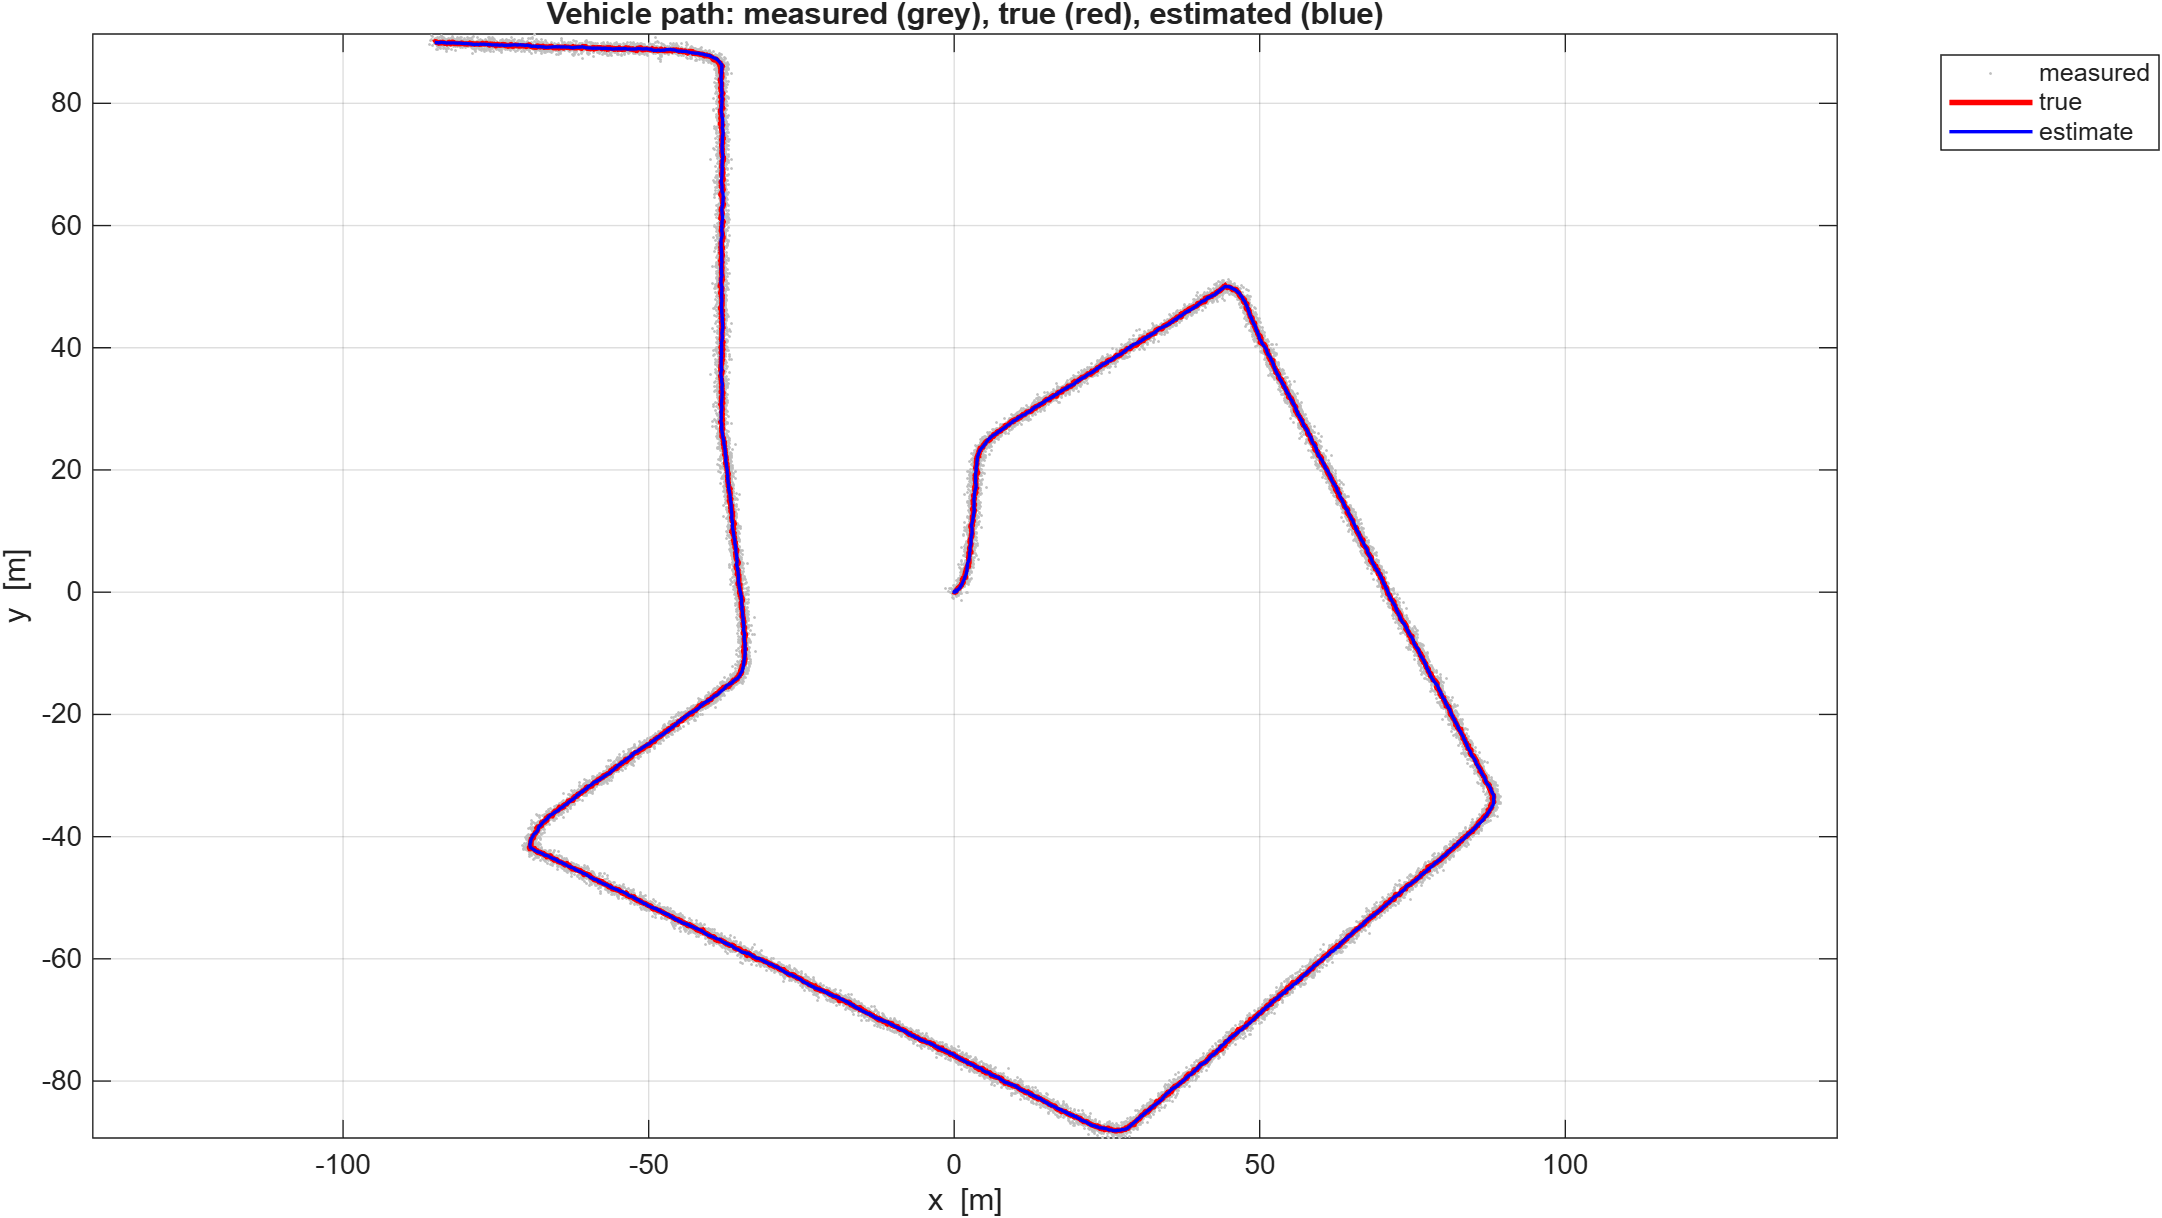
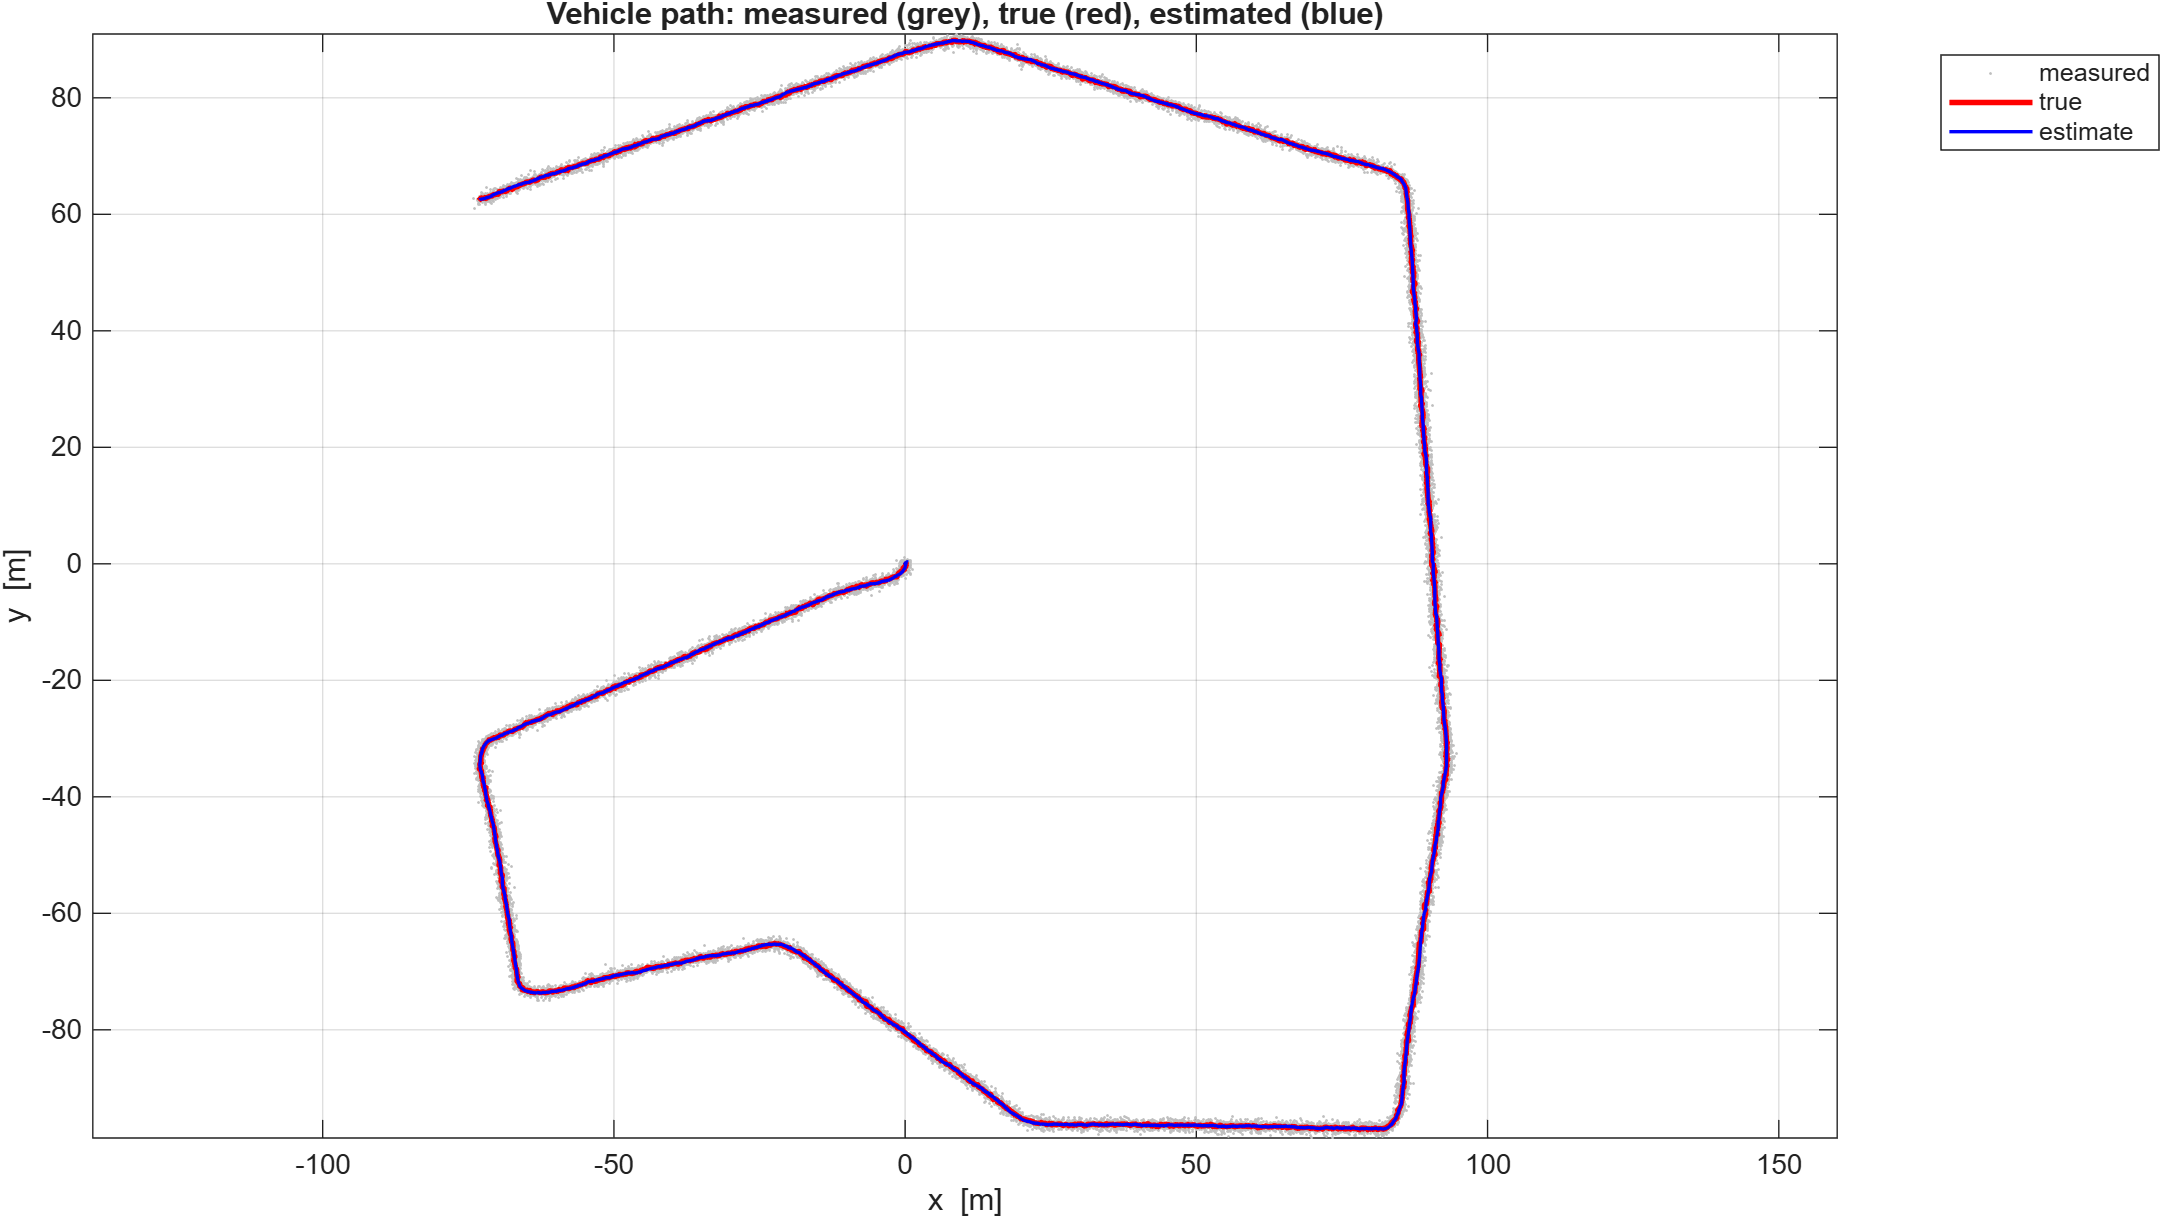
RVWP Randomised

diff --git a/sim_env/build_wp_plot.m b/sim_env/build_wp_plot.m
@@ -1,0 +1,8 @@
+%% Build path for RVWP guidance
+
+start_position = [0, 0];
+
+wp_plot = [start_position;
+    wp_ordered];
+
+assignin('base','wp_plot',wp_plot);
